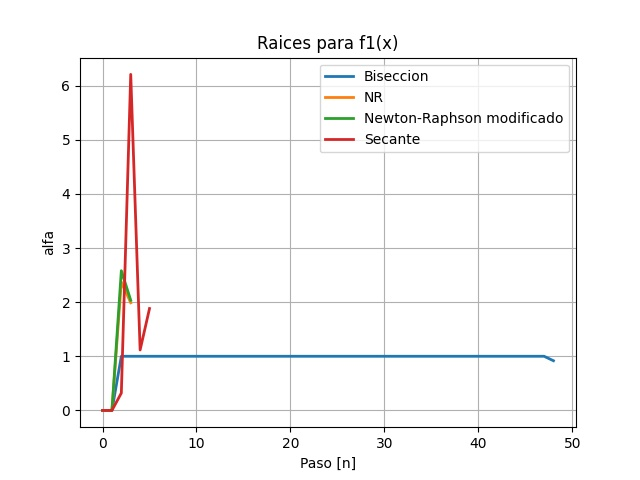
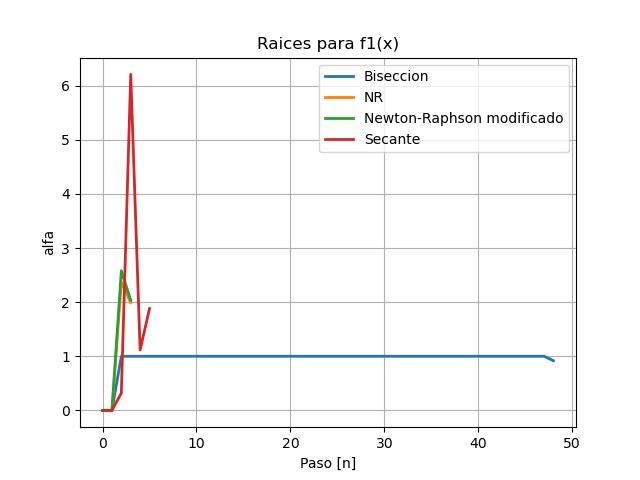
cambios en item e

diff --git a/tp1/ejercicio3raices/item_e/tablas/tabla_resultados1.py b/tp1/ejercicio3raices/item_e/tablas/tabla_resultados1.py
@@ -27,12 +27,12 @@ df2.to_csv("secante1.csv")
 
 df2 = pd.read_csv("secante1.csv")
 
-df3 = pd.DataFrame(secante, columns = ['Raices', 'Cotas', 'Orden de convergencia','constante asintotica'])
+df3 = pd.DataFrame(nr, columns = ['Raices', 'Cotas', 'Orden de convergencia','constante asintotica'])
 df3.to_csv("newton_raphson1.csv")
 
 df3 = pd.read_csv("newton_raphson1.csv")
 
-df4 = pd.DataFrame(secante, columns = ['Raices', 'Cotas', 'Orden de convergencia','constante asintotica'])
+df4 = pd.DataFrame(nr_mod, columns = ['Raices', 'Cotas', 'Orden de convergencia','constante asintotica'])
 df4.to_csv("newton_raphson_modificado1.csv")
 
 df4 = pd.read_csv("newton_raphson_modificado1.csv")

diff --git a/tp1/ejercicio3raices/item_e/tablas/tabla_resultados2.py b/tp1/ejercicio3raices/item_e/tablas/tabla_resultados2.py
@@ -27,12 +27,12 @@ df2.to_csv("secante2.csv")
 
 df2 = pd.read_csv("secante2.csv")
 
-df3 = pd.DataFrame(secante, columns = ['Raices', 'Cotas', 'Orden de convergencia','constante asintotica'])
+df3 = pd.DataFrame(nr, columns = ['Raices', 'Cotas', 'Orden de convergencia','constante asintotica'])
 df3.to_csv("newton_raphson2.csv")
 
 df3 = pd.read_csv("newton_raphson2.csv")
 
-df4 = pd.DataFrame(secante, columns = ['Raices', 'Cotas', 'Orden de convergencia','constante asintotica'])
+df4 = pd.DataFrame(nr_mod, columns = ['Raices', 'Cotas', 'Orden de convergencia','constante asintotica'])
 df4.to_csv("newton_raphson_modificado2.csv")
 
 df4 = pd.read_csv("newton_raphson_modificado2.csv")
